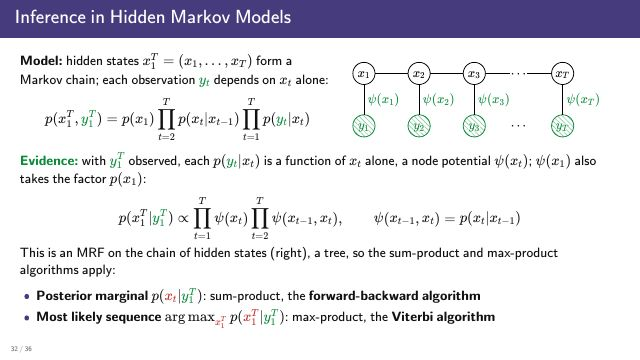
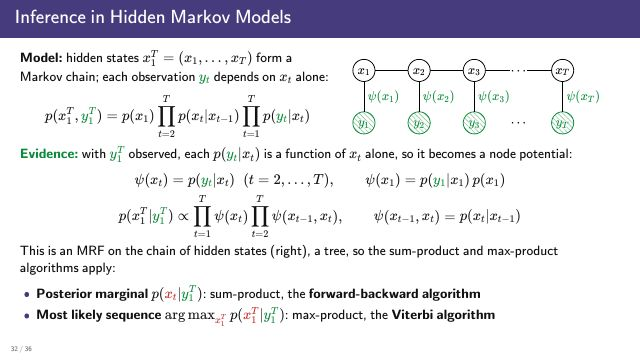
EPL slides: publish 44-1-gm-estimation-inference (PML_notes_dev f0c464c)

diff --git a/docs/teaching/epl/slides/44-1-gm-estimation-inference/index.html b/docs/teaching/epl/slides/44-1-gm-estimation-inference/index.html
@@ -606,7 +606,8 @@ table.vals.hm td:first-child, table.vals.hm th:first-child { text-align: left; p
     <fig name="hmmgraph" init="e=0"></fig>
   </div>
   <div pause="e=1">
-    <p><b class="evd">Evidence:</b> with $\evd{y_1^T}$ observed, each $p(\evd{y_t}|x_t)$ is a function of $x_t$ alone, a node potential $\psi(x_t)$; $\psi(x_1)$ also takes the factor $p(x_1)$:</p>
+    <p><b class="evd">Evidence:</b> with $\evd{y_1^T}$ observed, each $p(\evd{y_t}|x_t)$ is a function of $x_t$ alone, so it becomes a node potential:</p>
+    \[\psi(x_t) = p(\evd{y_t} | x_t) \;\; (t = 2, \dots, T), \qquad \psi(x_1) = p(\evd{y_1} | x_1)\, p(x_1)\]
     \[p(x_1^T | \evd{y_1^T}) \propto \prod_{t=1}^{T} \psi(x_t) \prod_{t=2}^{T} \psi(x_{t-1}, x_t), \qquad \psi(x_{t-1}, x_t) = p(x_t | x_{t-1})\]
     <p>This is an MRF on the chain of hidden states (right), a tree, so the sum-product and max-product algorithms apply:</p>
   </div>
